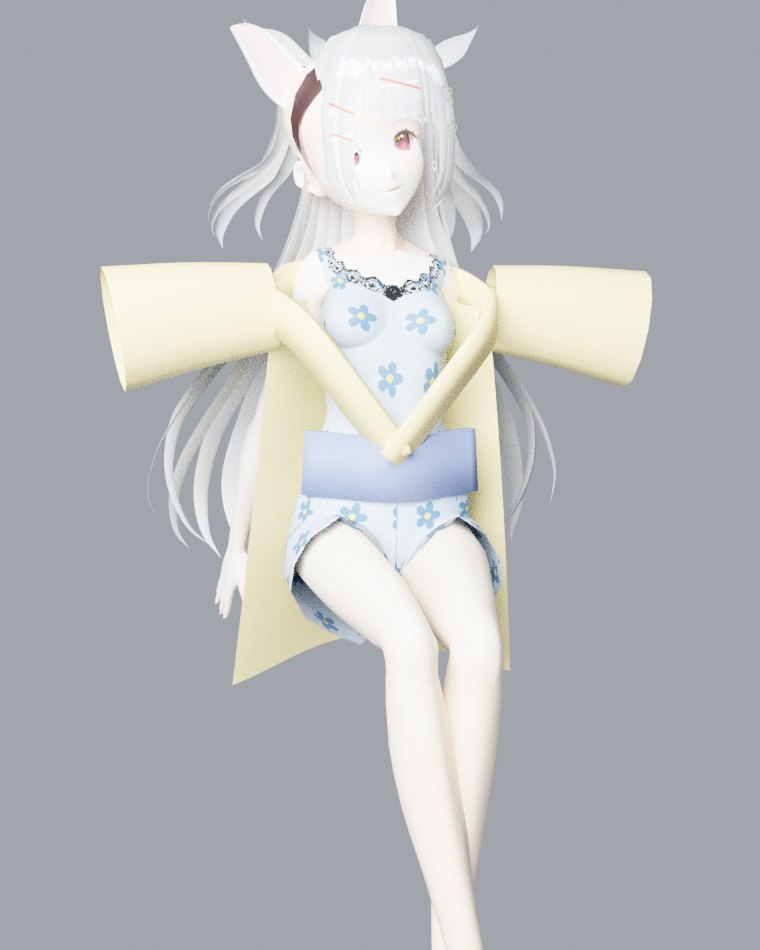
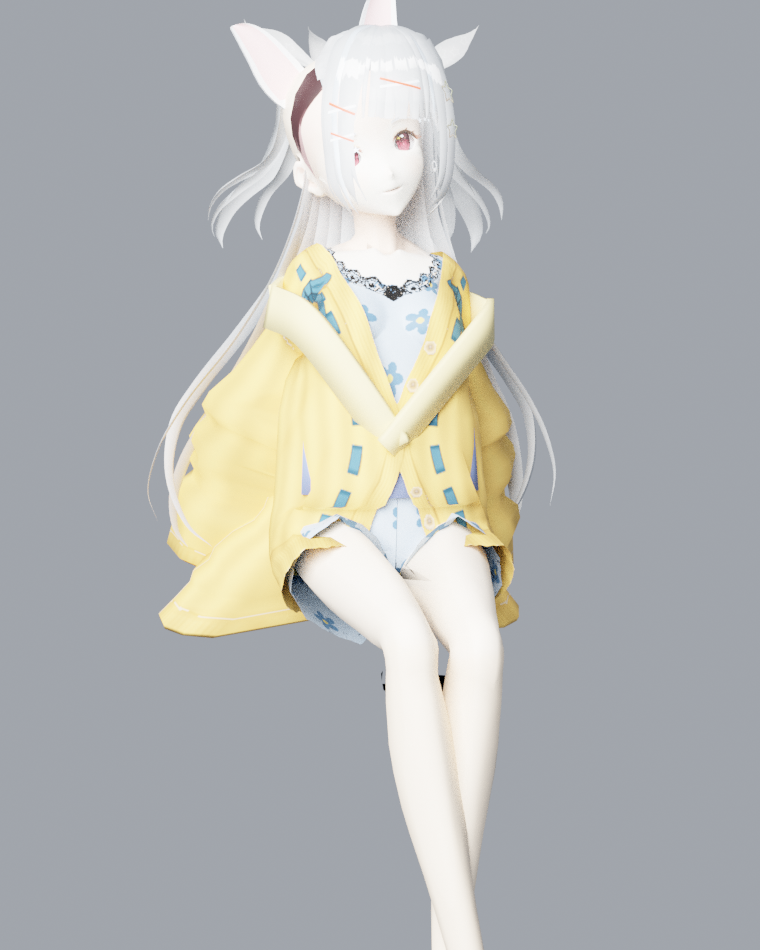
Reshape her cardigan into the yukata instead of replacing it
Building a yukata from scratch produced something that read as cut card: flat
panels, hard edges, no fold or fall anywhere in it. Her cardigan is real cloth
geometry -- it fits the body, it has topology and UVs and weights, and it
deforms with the pose because it is skinned -- so pulling THAT into the shape
of a yukata keeps everything that made it look like fabric.

It is safe to do because of what the measurements said: the tops are 1758
vertices and every one is exclusive to the garment, not one shared with the
skin, so they move freely without tearing her open. The body of the cardigan
sits inside |x| < 0.20 over z 0.79-1.38, and outboard of that it is a sleeve
tube about 13cm across running to the wrist.

Two changes carry it. Flaring the sleeve's cross-section as it runs outboard
while dragging its underside down turns a fitted tube into the hanging pouch a
yukata sleeve actually is, and stretching the hem downward drops the garment
past the hip instead of stopping at it. The rest mesh is what gets edited, so
the armature goes on deforming it as usual.

What stays generated is only what a cardigan does not have: the crossed collar,
which is the one feature that makes a robe read as a yukata, and a sash. The
built sleeves and back panel are gone -- with the cardigan reshaped they only
competed with it, and she briefly had two sets of sleeves, the cardigan's on
her arms and a pair of pale boxes floating where her arms had been before she
[…]

Changed region(s): [[0.1211, 0.2442, 0.8776, 0.7326], [0.575, 0.7021, 0.6053, 0.7326], [0.5145, 0.58, 0.5447, 0.6105]]

diff --git a/CharacterPrototype/tools/blender_garment.py b/CharacterPrototype/tools/blender_garment.py
@@ -237,6 +237,82 @@ def strip_garment(material_substring=TOPS_MATERIAL):
     return removed
 
 
+# --- Reshaping her own cardigan ---------------------------------------------
+# Measured off the base model in the rest pose: the tops are 1758 vertices,
+# every one of them exclusive to the garment (not a single vertex shared with
+# the skin), so they can be moved freely without tearing her open. The body of
+# the cardigan sits inside |x| < 0.20 spanning z 0.79-1.38; beyond that it is
+# the sleeve, a tube about 13cm across running out to the wrist at x = 0.567.
+#
+# Reshaping that beats replacing it. The cardigan is real cloth geometry --
+# it fits the body, it has topology and UVs and weights, and it deforms with
+# the pose because it is skinned. Geometry built from scratch to stand in for
+# it has none of that, which is exactly why the first yukata read as cut card.
+ARM_CENTRE_Z = 1.222      # the sleeve tube's centreline in the rest pose
+SLEEVE_START_X = 0.200    # outboard of this, the tops are sleeve rather than body
+SLEEVE_END_X = 0.567
+HEM_START_Z = 0.900       # below this, the hem is stretched downward
+
+SLEEVE_FLARE = 2.10       # how much the sleeve's cross-section grows at the cuff
+SLEEVE_HANG = 0.360       # how far the underside drops -- this is the tamoto
+SLEEVE_DEPTH = 0.60       # front-to-back widening, so it is a pouch not a fin
+HEM_DROP = 0.230
+
+
+def reshape_tops_into_yukata(material_substring=TOPS_MATERIAL,
+                             flare=SLEEVE_FLARE, hang=SLEEVE_HANG,
+                             depth=SLEEVE_DEPTH, hem_drop=HEM_DROP):
+    """Pull her cardigan into the shape of a yukata, vertex by vertex.
+
+    Two changes carry it. The sleeve's cross-section is flared as it runs
+    outboard and its underside is dragged down, which turns a fitted tube into
+    the hanging pouch a yukata sleeve actually is. The hem is then stretched
+    downward so the garment falls past the hip instead of stopping at it.
+
+    Edits the rest mesh, so the armature goes on deforming it as usual and the
+    result still moves with the pose.
+    """
+    moved = 0
+    for obj in bpy.data.objects:
+        if obj.type != "MESH":
+            continue
+        slots = [i for i, sl in enumerate(obj.material_slots)
+                 if sl.material and material_substring in sl.material.name]
+        if not slots:
+            continue
+
+        mesh = obj.data
+        garment, other = set(), set()
+        for poly in mesh.polygons:
+            (garment if poly.material_index in slots else other).update(poly.vertices)
+        # Only vertices this garment owns outright. A vertex shared with the
+        # skin would drag her body with the cloth.
+        own = garment - other
+
+        for index in own:
+            vert = mesh.vertices[index]
+            x, y, z = vert.co
+            reach = abs(x)
+            if reach > SLEEVE_START_X:
+                t = min((reach - SLEEVE_START_X) / (SLEEVE_END_X - SLEEVE_START_X), 1.0)
+                offset = z - ARM_CENTRE_Z
+                z = ARM_CENTRE_Z + offset * (1 + flare * t)
+                if offset < 0:
+                    # Only the underside falls; the top stays on the shoulder.
+                    z -= hang * t
+                y *= 1 + depth * t
+            elif z < HEM_START_Z:
+                u = (HEM_START_Z - z) / max(HEM_START_Z - 0.790, 1e-6)
+                z -= hem_drop * min(u, 1.0)
+            else:
+                continue
+            vert.co = (x, y, z)
+            moved += 1
+        mesh.update()
+    log(f"reshaped {moved} cardigan vertices into a yukata")
+    return moved
+
+
 def parent_to_bone(obj, armature, bone_name):
     """Hang a piece off a bone without it jumping when the parent is set."""
     world = obj.matrix_world.copy()
@@ -262,7 +338,18 @@ OBI_CLOTH = (0.16, 0.22, 0.48)
 
 
 def build_yukata(armature, cloth=None, collar=None, obi=None):
-    """Every piece, parented to the bone it hangs from. Returns the objects."""
+    """Add the pieces her reshaped cardigan cannot provide: collar and obi.
+
+    Deliberately small. Once the cardigan itself is pulled into a yukata it
+    already supplies the sleeves, the body and the hem -- as real cloth, with
+    folds and weights and a texture -- and generated stand-ins for those only
+    competed with it. An earlier version built both, and she ended up with two
+    sets of sleeves: the cardigan's on her arms, and a pair of pale boxes
+    floating where her arms had been before she was posed.
+
+    What a cardigan does not have is the crossed collar, which is the single
+    feature that makes a robe read as a yukata, and a sash to close it.
+    """
     cloth = cloth or cloth_material("YukataCloth", YUKATA_CLOTH)
     collar = collar or cloth_material("YukataCollar", YUKATA_CLOTH, 0.66)
     obi = obi or cloth_material("YukataObi", OBI_CLOTH, 0.66)
@@ -275,17 +362,6 @@ def build_yukata(armature, cloth=None, collar=None, obi=None):
                            material=collar, taper_end=0.85)
         parent_to_bone(piece, armature, BONES["collar"])
         made.append(piece)
-
-    for key, path in SLEEVES.items():
-        piece = build_sleeve(f"Yukata_Sleeve{key}", path, SLEEVE_RADIUS,
-                             material=cloth)
-        parent_to_bone(piece, armature, BONES[f"sleeve{key}"])
-        made.append(piece)
-
-    back = build_back_panel("Yukata_Back", BACK_PANEL_TOP, BACK_PANEL_DROP,
-                            BACK_PANEL_FLARE, material=cloth)
-    parent_to_bone(back, armature, BONES["back"])
-    made.append(back)
 
     sash = build_band("Yukata_Obi",
                       [(0.115, 0.060, 0.975), (0.0, 0.105, 0.968),
@@ -306,14 +382,17 @@ if __name__ == "__main__":
     import blender_compose
 
     root, arm = blender_character.build_character()
-    strip_garment()
+    reshape_tops_into_yukata()
     # Pose her BEFORE judging the garment. In the T-pose her arms are
     # horizontal, so a sleeve running along the arm is seen end-on and reads as
     # a flat slab -- which sent the first pass chasing a shape problem that
     # only existed in the bind pose. The sleeves hang off the arm bones and
     # follow them down as soon as she is actually sitting.
-    blender_compose.apply_pose(arm, blender_compose.POSE_SEATED)
     build_yukata(arm)
+    # Pose AFTER building. The paths above are rest-pose measurements, and the
+    # pieces hang off bones, so the rig carries them into the pose. Built the
+    # other way round they land where her arms used to be.
+    blender_compose.apply_pose(arm, blender_compose.POSE_SEATED)
     for obj in bpy.data.objects:
         if obj.type == "MESH" and any(k in obj.name for k in ("Hair", "Ear")):
             obj.visible_shadow = False
